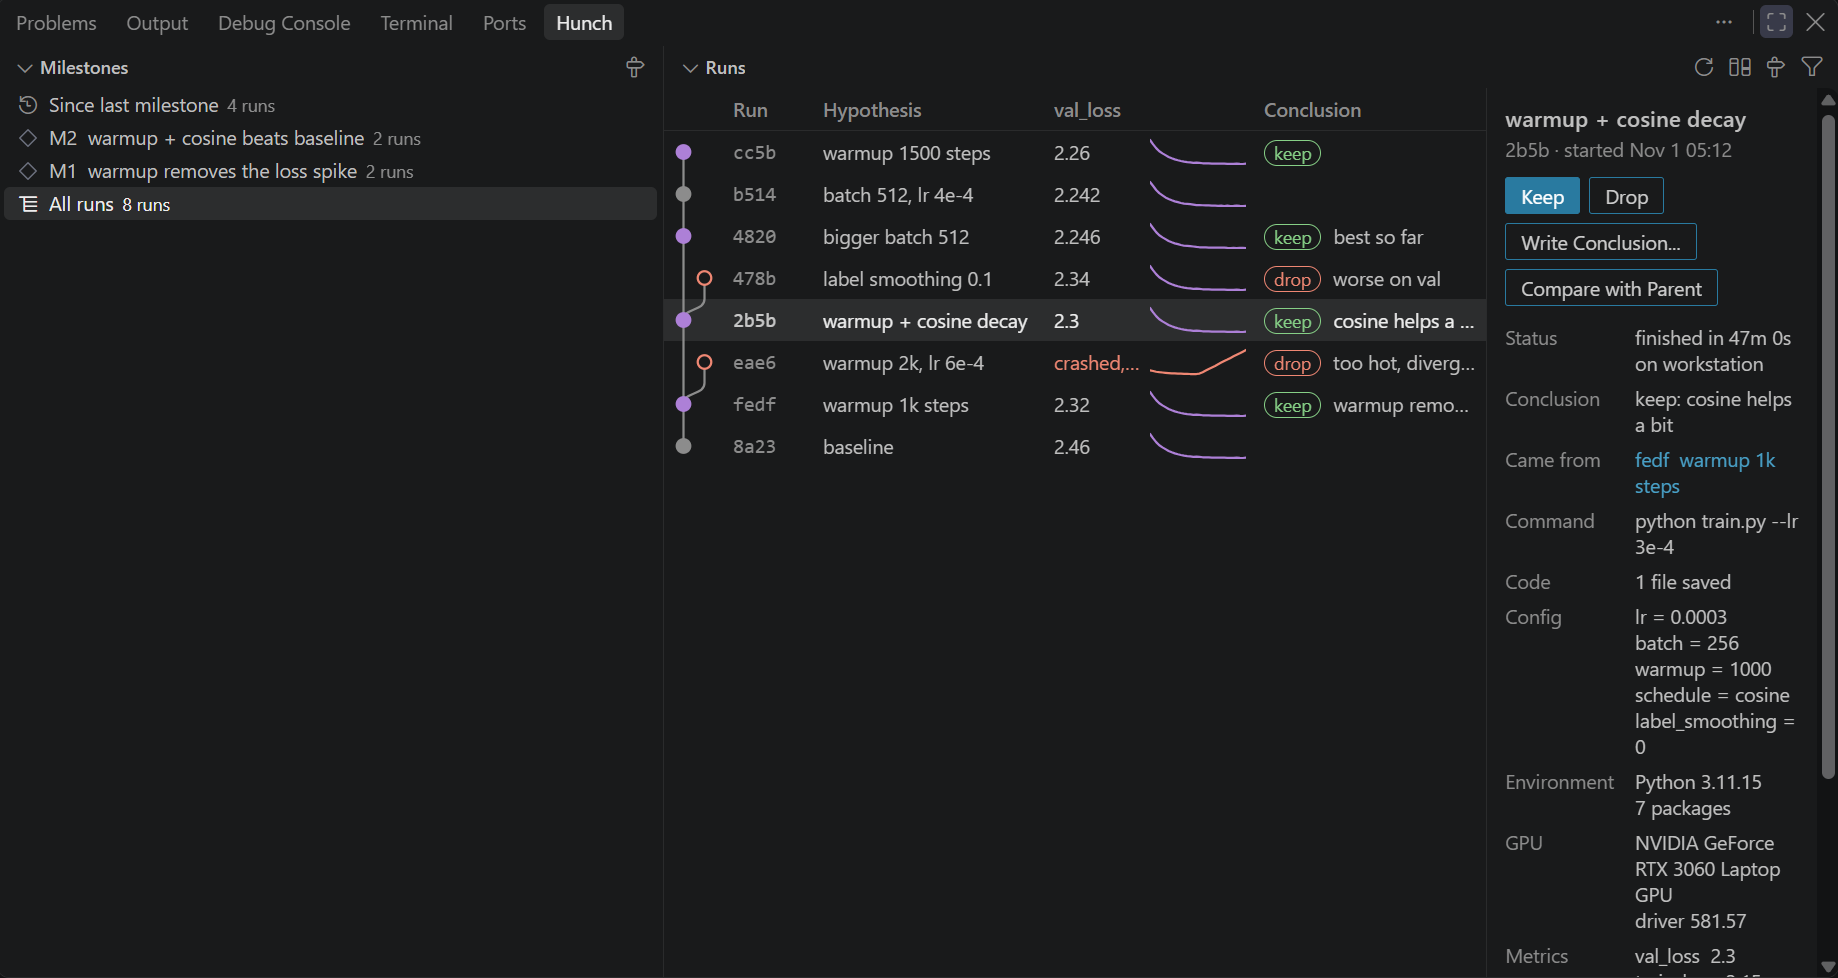
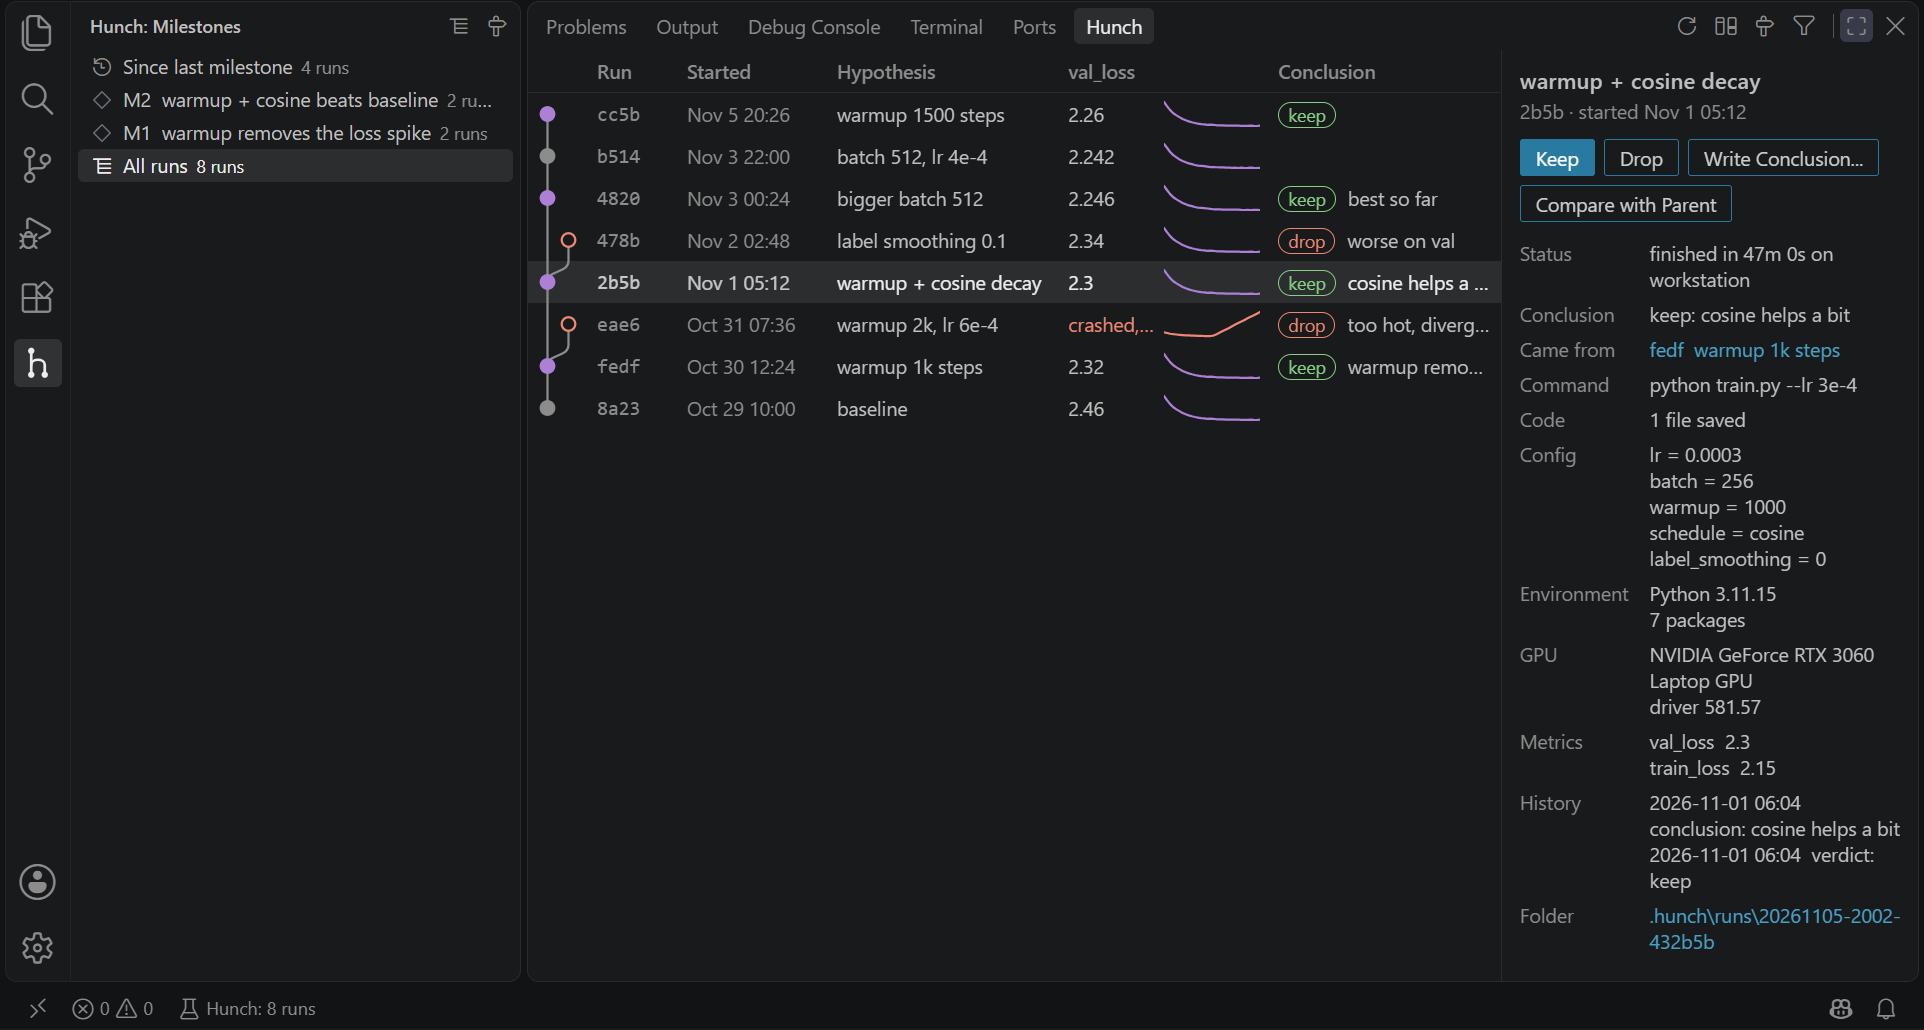
chore: README and screenshot for the Activity Bar layout

diff --git a/test/integration/suite.ts b/test/integration/suite.ts
@@ -89,7 +89,7 @@ export async function run(): Promise<void> {
   // Screenshot mode: select a run in a maximized panel and hold, instead of testing.
   const screenshot = process.env.HUNCH_SCREENSHOT_SELECT;
   if (screenshot) {
-    for (const command of ["workbench.action.closeSidebar", "workbench.action.closeAuxiliaryBar", "notifications.clearAll", "workbench.action.toggleMaximizedPanel"]) {
+    for (const command of ["workbench.view.extension.hunch-sidebar", "workbench.action.closeAuxiliaryBar", "notifications.clearAll", "workbench.action.toggleMaximizedPanel"]) {
       await vscode.commands.executeCommand(command);
     }
     const run = new Store(workspaceRoot()).runs().find((r) => r.why === screenshot);

diff --git a/README.md b/README.md
@@ -12,8 +12,8 @@
 
 </div>
 
-Your [Hunch](https://github.com/sigmoid-ide/hunch) runs in the bottom panel: what each run tried, how it went,
-and what it showed.
+Your [Hunch](https://github.com/sigmoid-ide/hunch) runs, one click away in the Activity Bar: what each run tried,
+how it went, and what it showed.
 
 ![The Hunch panel: milestones, the tree of runs with their metric curves and conclusions, and one run's details](docs/screenshot.png)
 
@@ -28,7 +28,8 @@ Works in VS Code 1.85 or newer, Cursor, Windsurf and VSCodium, and over Remote S
 ## Get started
 
 1. Install Hunch in your project's interpreter: `pip install sigmoid-hunch` (0.3.1 or newer).
-2. Open the **Hunch** tab in the bottom panel (Ctrl+J, or Cmd+J on macOS).
+2. Click the **Hunch** icon in the Activity Bar: your milestones open in the side bar and your runs in the panel.
+   The status bar shows how many runs you have, or how many are training; click it to see them.
 3. Run a script with **Run Python File with Hunch** from the Run button's menu, or from a terminal:
    `hunch run -m "why" -- python train.py`.
 
